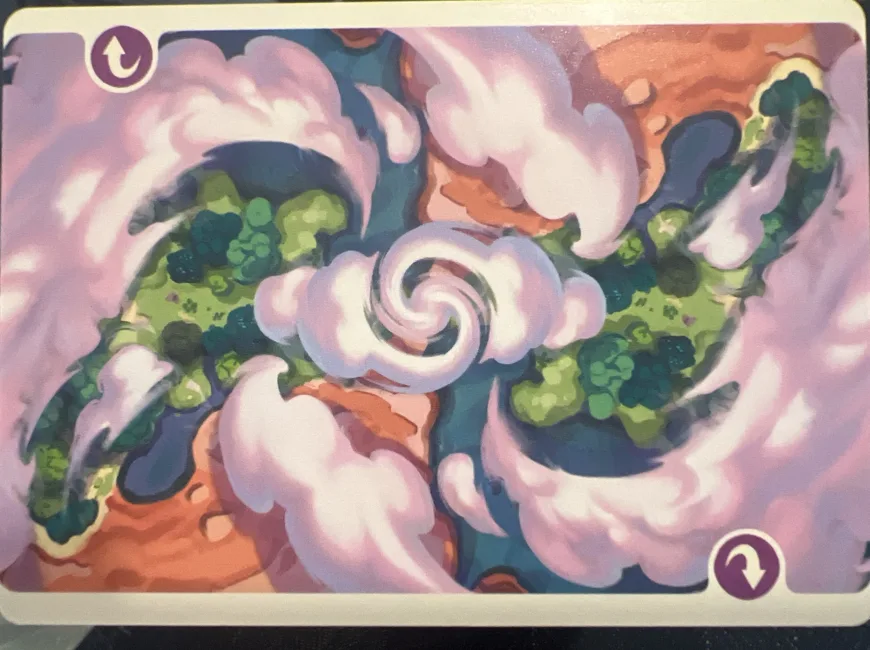
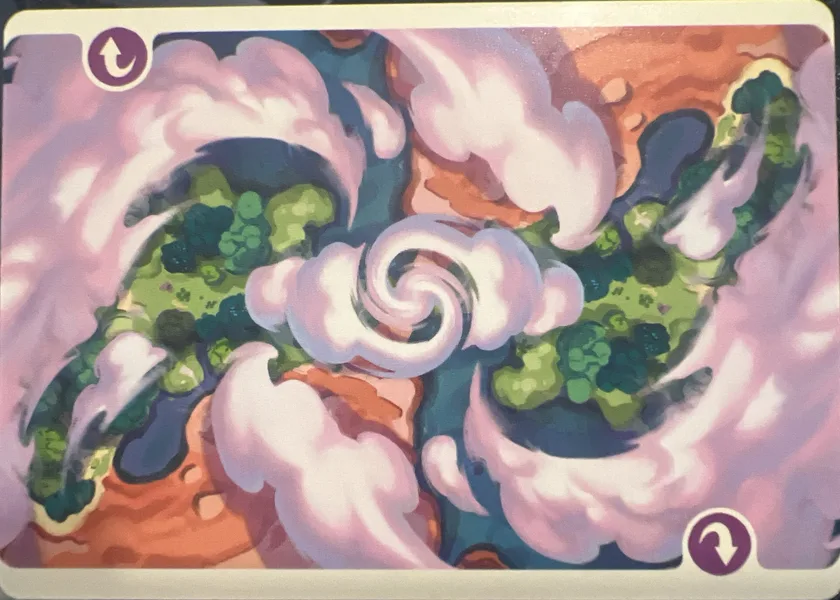
Piste : toutes les cartes recadrées au même format (bords alignés) ; côté Héros en miroir (nom et stats près du héros, flèches au bord)
Claude-Session: https://claude.ai/code/session_016pJFf2BYFwoWkmBzHWxVsE

diff --git a/js/play.js b/js/play.js
@@ -238,7 +238,7 @@
       const will = winT.length && !blocked;
       const tot = totPills(t, terr, winT);
       const badge = V.tie ? '' : (winT.length && blocked ? '<span class="nowill" title="Bloquée par un Défenseur">🛡</span>' : '');
-      return '<div class="zone exp' + (mine ? ' mine' : '') + (will ? ' willz' : '') + '"' + (mine ? ' data-drop="' + e + '"' : '') + '><h3>' + (e === 'H' ? 'Héros' : 'Compagnon') + ' <span class="tot" id="tot-' + p + e + '">' + tot + '</span>' + badge + (asc ? '<span class="asc" title="Expédition élevée">⇑</span>' : '') + '<span class="sp"></span><button class="mini" data-pos="' + p + ',' + e + ',' + (e === 'C' ? 1 : -1) + '" title="' + (e === 'C' ? 'Avancer' : 'Reculer') + ' l’expédition">◀</button><button class="mini" data-pos="' + p + ',' + e + ',' + (e === 'C' ? -1 : 1) + '" title="' + (e === 'C' ? 'Reculer' : 'Avancer') + ' l’expédition">▶</button></h3><div class="cards">' + cardsEl(X.exp[e]) + '</div></div>';
+      return '<div class="zone exp e' + e + (mine ? ' mine' : '') + (will ? ' willz' : '') + '"' + (mine ? ' data-drop="' + e + '"' : '') + '><h3>' + (e === 'H' ? 'Héros' : 'Compagnon') + ' <span class="tot" id="tot-' + p + e + '">' + tot + '</span>' + badge + (asc ? '<span class="asc" title="Expédition élevée">⇑</span>' : '') + '<span class="sp"></span><button class="mini" data-pos="' + p + ',' + e + ',' + (e === 'C' ? 1 : -1) + '" title="' + (e === 'C' ? 'Avancer' : 'Reculer') + ' l’expédition">◀</button><button class="mini" data-pos="' + p + ',' + e + ',' + (e === 'C' ? -1 : 1) + '" title="' + (e === 'C' ? 'Reculer' : 'Avancer') + ' l’expédition">▶</button></h3><div class="cards">' + cardsEl(X.exp[e]) + '</div></div>';
     };
     return zone('H') + '<div class="herocol">' + (X.hero ? cardEl(X.hero) : '') + '<span class="hname" style="color:' + (FC[(DB[(card(X.hero) || {}).ref] || {}).f] || 'inherit') + '">' + esc(X.name) + '</span></div>' + zone('C');
   }

diff --git a/play.html b/play.html
@@ -170,6 +170,12 @@ button.mini{min-height:24px;padding:0 7px;font-size:11px}
 .reg.S.here{box-shadow:none}
 .c.toss{outline:3px solid #e0413a;outline-offset:1px;filter:grayscale(.6) brightness(.7)}
 .mk3 img{box-shadow:0 0 0 3px #22c3d6}
+.tcimg{background-size:100% 100%}
+.tcard{border-radius:4.5%/6.3%}
+/* Miroir : côté Héros, nom et stats près du héros (au centre), flèches au bord */
+.zone.exp.eH h3{flex-direction:row-reverse}
+.zone.exp.eH h3 .tot{flex-direction:row}
+.zone.exp.eH h3 button.mini:first-of-type{order:2}.zone.exp.eH h3 button.mini:last-of-type{order:1}
 </style>
 </head>
 <body>
@@ -216,8 +222,8 @@ button.mini{min-height:24px;padding:0 7px;font-size:11px}
 </section>
 
 <script src="https://unpkg.com/peerjs@1.5.4/dist/peerjs.min.js"></script>
-<script src="js/engine.js?v=1795697149"></script>
-<script src="js/net.js?v=1795697149"></script>
-<script src="js/play.js?v=1795697149"></script>
+<script src="js/engine.js?v=1795697508"></script>
+<script src="js/net.js?v=1795697508"></script>
+<script src="js/play.js?v=1795697508"></script>
 </body>
 </html>
